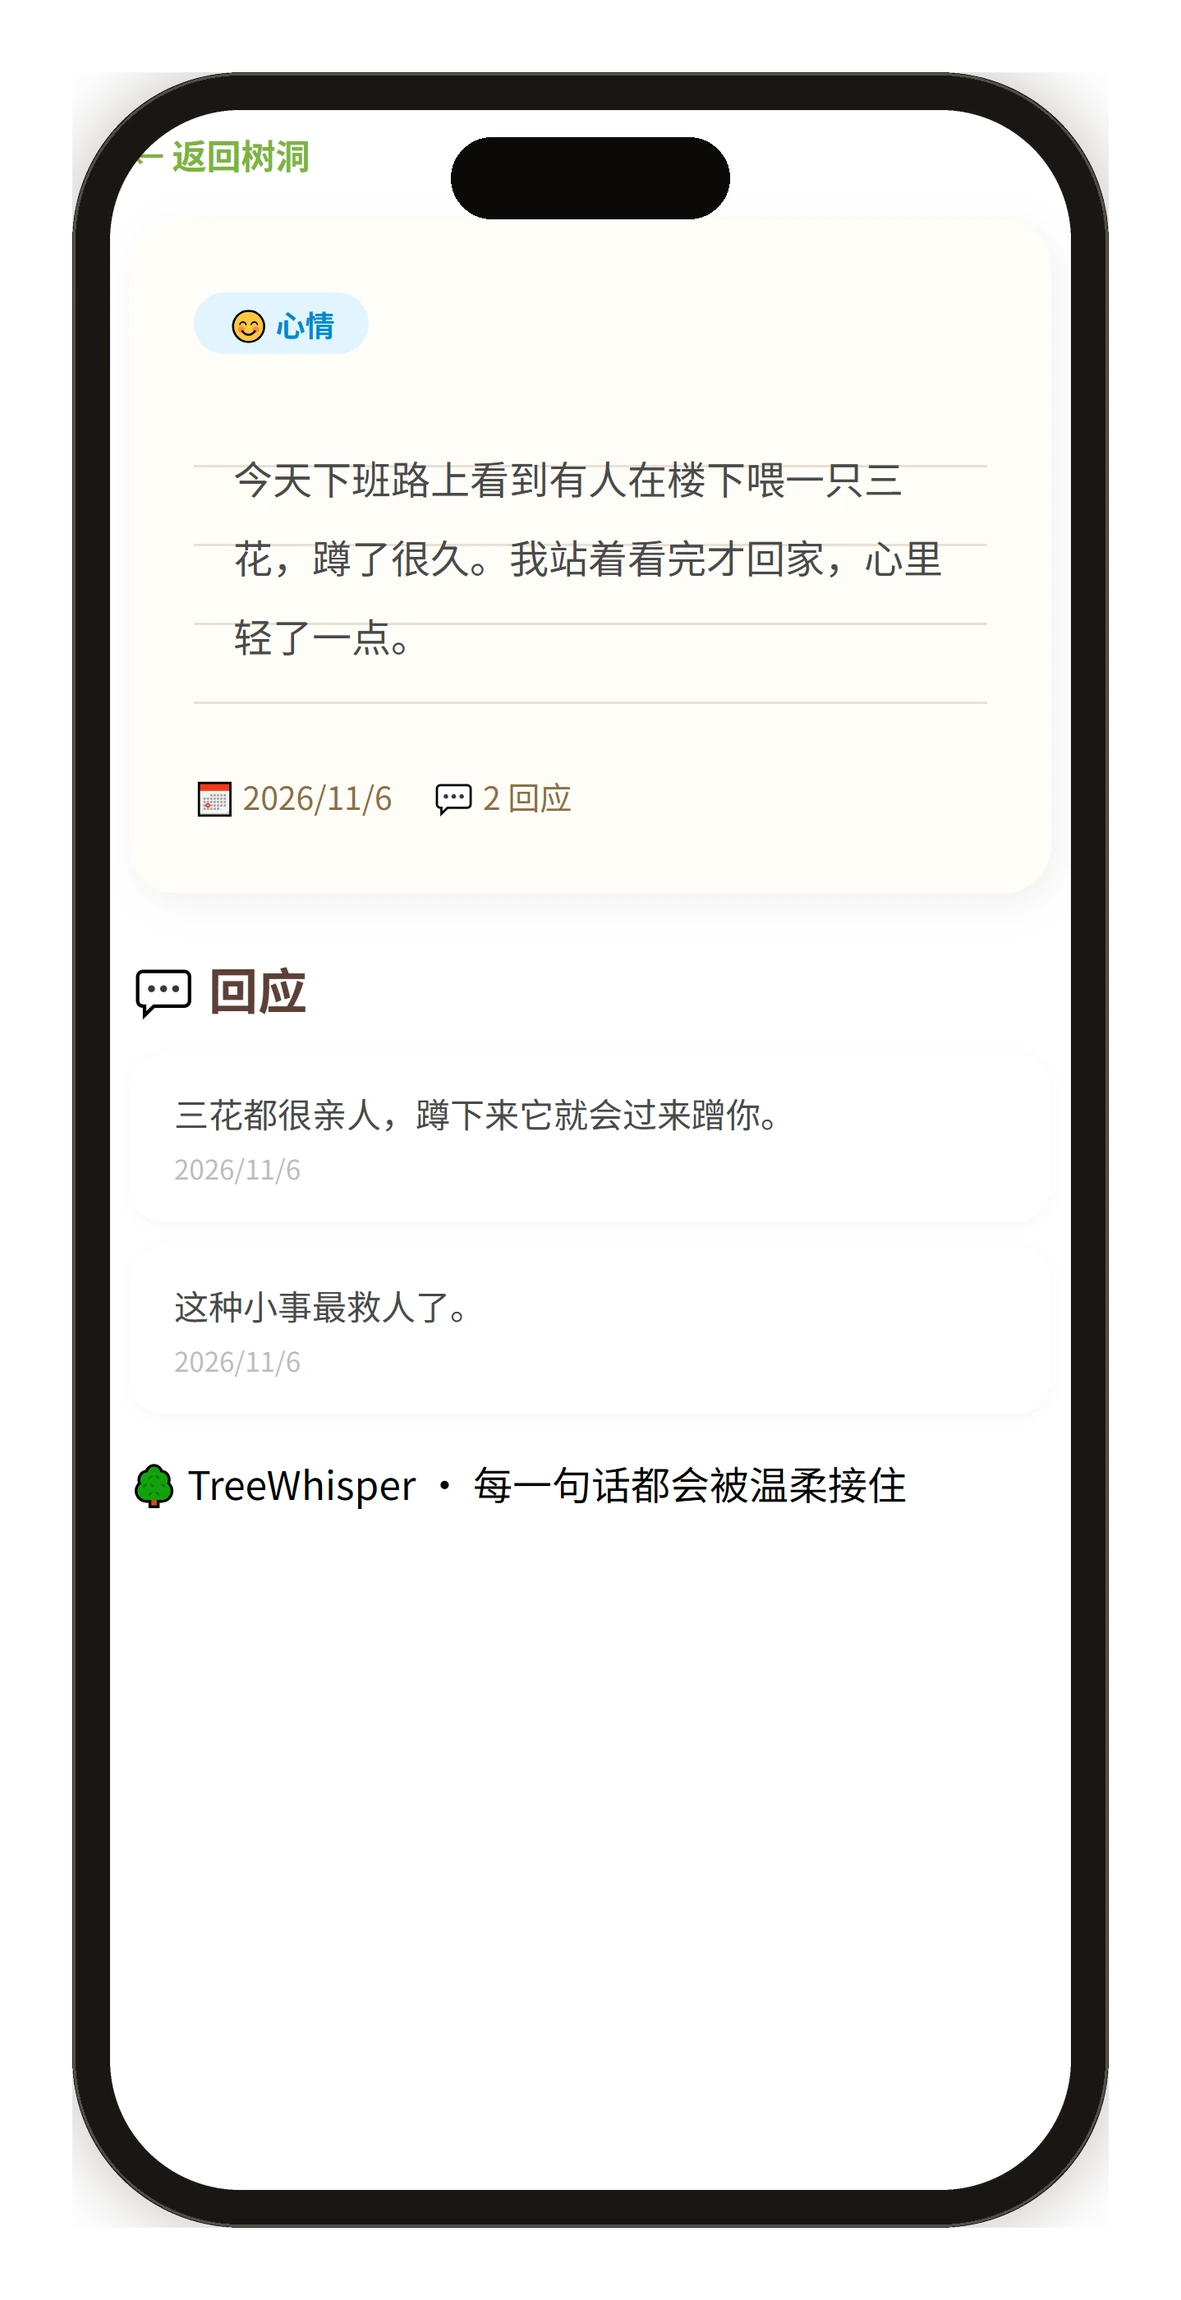
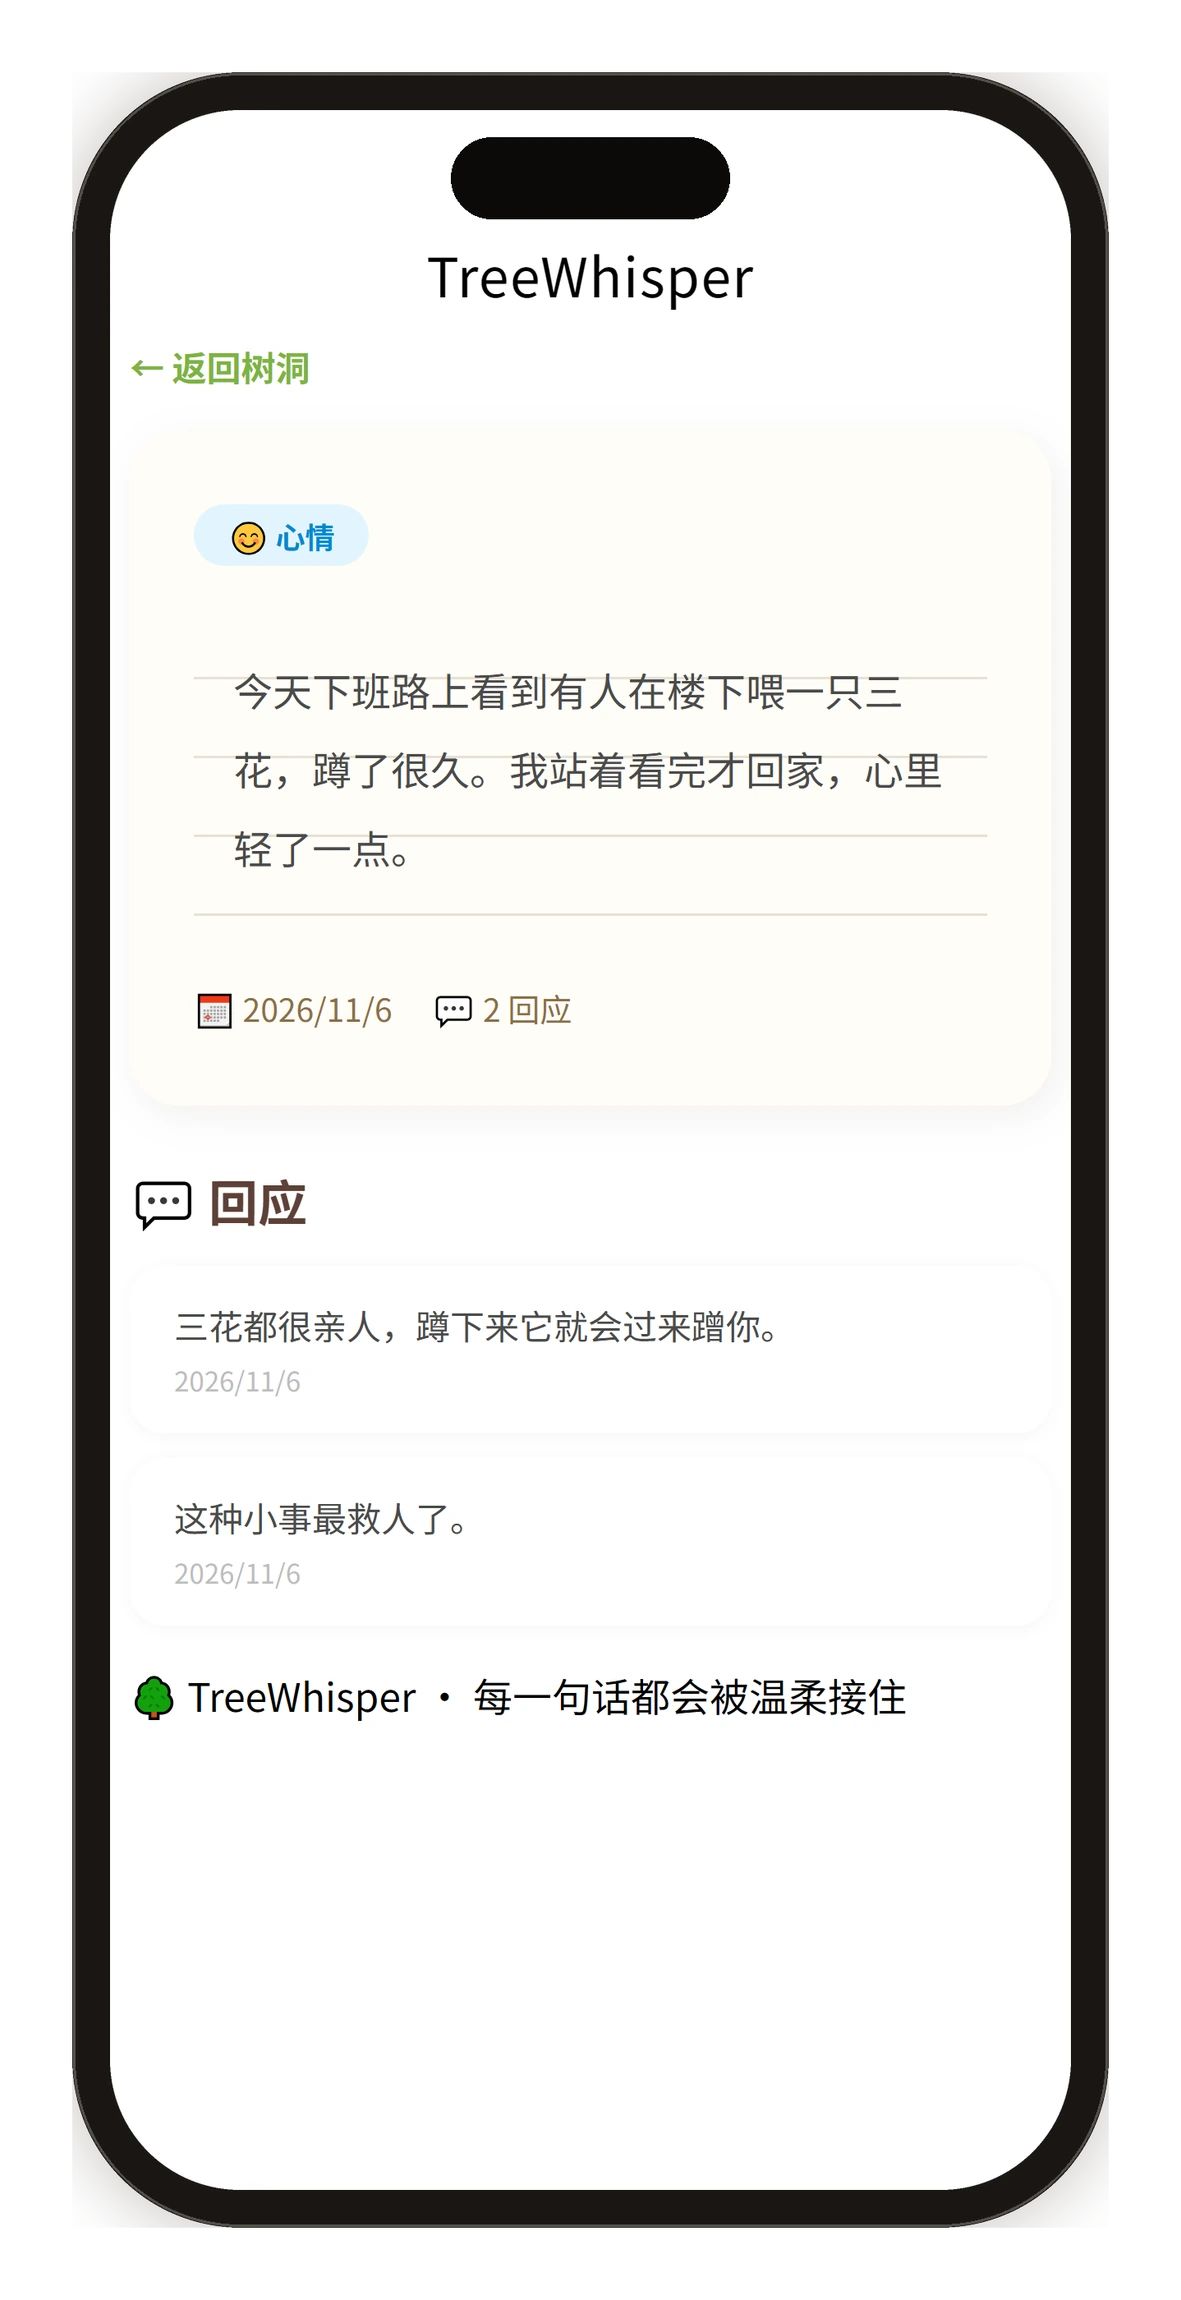
作品集首页去掉各作品说明文字，只留作品名、标签、体验入口与截图；体验入口改为醒目的实心按钮

diff --git a/docs/index.html b/docs/index.html
@@ -16,6 +16,7 @@
   --line:#e5e0d4;
   --line-2:#d5cebd;
   --accent:#a8402a;
+  --accent-d:#8c3321;
   --sans:-apple-system,BlinkMacSystemFont,"PingFang SC","Hiragino Sans GB","Microsoft YaHei","Segoe UI",sans-serif;
   --mono:ui-monospace,SFMono-Regular,Menlo,Consolas,"Liberation Mono",monospace;
 }
@@ -50,13 +51,25 @@ a{color:inherit;text-decoration:none}
 /* 作品版块 */
 .work{padding:clamp(38px,5vw,64px) 0 clamp(40px,5.4vw,70px);border-top:1px solid var(--line)}
 .work:nth-of-type(even){background:var(--bg-2)}
-.work__head{display:flex;flex-wrap:wrap;align-items:baseline;gap:8px 16px;margin-bottom:clamp(24px,3vw,38px)}
+.work__head{display:flex;flex-wrap:wrap;align-items:center;gap:12px 18px;margin-bottom:clamp(24px,3vw,38px)}
 .work__no{font-family:var(--mono);font-size:12px;color:var(--muted);letter-spacing:.1em}
 .work h2{margin:0;font-size:clamp(22px,2.6vw,30px);font-weight:600;letter-spacing:-.01em;line-height:1.3}
-.work__sub{flex:1 1 100%;order:3;margin:2px 0 0;color:var(--muted);font-size:13.5px;letter-spacing:.02em}
-.tags{display:flex;flex-wrap:wrap;gap:6px;margin:0 0 0 auto;padding:0;list-style:none}
+
+.tags{display:flex;flex-wrap:wrap;gap:6px;margin:0;padding:0;list-style:none;flex:1 1 auto}
 .tags li{font-size:11.5px;line-height:1;color:var(--ink-2);border:1px solid var(--line-2);
   border-radius:2px;padding:5px 8px;white-space:nowrap}
+
+/* 体验入口 */
+.work__act{display:flex;align-items:center;gap:16px;margin-left:auto}
+.cta{display:inline-flex;align-items:center;gap:8px;background:var(--accent);color:#fff;
+  padding:10px 20px 11px;border-radius:3px;font-size:14px;font-weight:500;letter-spacing:.04em;
+  transition:background .18s,transform .18s,box-shadow .18s}
+.cta .arrow{font-size:12px;opacity:.9;transition:transform .18s}
+.cta:hover{background:var(--accent-d);box-shadow:0 3px 10px rgba(140,51,33,.22)}
+.cta:hover .arrow{transform:translate(1px,-1px)}
+.more{font-size:12.5px;color:var(--muted);border-bottom:1px solid var(--line-2);
+  padding-bottom:1px;transition:color .2s,border-color .2s}
+.more:hover{color:var(--accent);border-color:var(--accent)}
 
 /* 手机排 */
 .phones{--gap:clamp(8px,1.2vw,18px);--cols:4;
@@ -66,16 +79,6 @@ a{color:inherit;text-decoration:none}
 .phones--c4{--cols:4}
 .ph{width:calc((100% - (var(--cols) - 1) * var(--gap)) / var(--cols));margin:0}
 .ph img{width:100%;height:auto}
-
-/* 说明 */
-.desc{margin-top:clamp(26px,3.2vw,40px);display:grid;grid-template-columns:minmax(0,1fr) auto;
-  gap:clamp(18px,3vw,48px);align-items:end}
-.desc p{margin:0;max-width:44em;color:var(--ink-2);font-size:15px;line-height:1.92}
-.desc p + p{margin-top:9px}
-.links{display:flex;gap:20px;font-size:13.5px;white-space:nowrap;padding-bottom:4px}
-.links a{border-bottom:1px solid var(--line-2);padding-bottom:2px;transition:color .2s,border-color .2s}
-.links a:hover{color:var(--accent);border-color:var(--accent)}
-.links .arrow{font-size:12px;opacity:.7;margin-left:2px}
 
 /* 页脚 */
 .foot{border-top:1px solid var(--line);padding:30px 0 54px;
@@ -87,13 +90,14 @@ a{color:inherit;text-decoration:none}
 @media (max-width:900px){
   .phones{--cols:2}
   .phones--land{--cols:1}
-  .tags{margin-left:0;order:2;flex-basis:100%}
-  .desc{grid-template-columns:1fr;align-items:start}
+  .tags{flex-basis:100%;order:3}
+  .work__act{order:4;margin-left:0;flex-basis:100%}
 }
 @media (max-width:560px){
   .phones{--cols:2;--gap:9px}
   .phones--land{--cols:1}
-  .work__sub{font-size:12.5px}
+  .cta{flex:1;justify-content:center;padding:12px 18px}
+  .more{flex:0 0 auto}
 }
 @media (prefers-reduced-motion:reduce){html{scroll-behavior:auto}}
 </style>
@@ -130,7 +134,10 @@ a{color:inherit;text-decoration:none}
         <ul class="tags">
           <li>像素地牢</li><li>横屏战斗</li><li>三十层病区</li><li>可试玩</li>
         </ul>
-        <p class="work__sub">从三十层病区的最顶上往下打，一层一层打到门口。</p>
+        <p class="work__act">
+          <a class="cta" href="https://miolulu.github.io/hospital-slayer-game/play/" target="_blank" rel="noopener">在线试玩<span class="arrow">↗</span></a>
+          <a class="more" href="zhanshen/">详情</a>
+        </p>
       </div>
 
       <div class="phones phones--land phones--c3">
@@ -139,18 +146,6 @@ a{color:inherit;text-decoration:none}
         <figure class="ph"><img src="assets/hd/zhanshen-floor.webp" alt="楼层页：左边是病房实景，右边列出这一层会遇到的六种敌人" width="2226" height="1386" loading="lazy"></figure>
         <figure class="ph"><img src="assets/hd/zhanshen-archive.webp" alt="病历档案：病人姓名、编号、症状记录与楼层进度" width="2312" height="1437" loading="lazy"></figure>
         <figure class="ph"><img src="assets/hd/zhanshen-weapon.webp" alt="武器页：剑、枪、鞭、炮四类武器，各自写着攻击范围和出手节奏" width="2226" height="1386" loading="lazy"></figure>
-      </div>
-
-      <div class="desc">
-        <div>
-          <p>你在一座精神病院醒过来，病历上写着 0001 号，失聪、低语幻听、对红光过敏。医院有三十层病区，从最上面往下打，打过一层才开下一层。</p>
-          <p>战斗自动出手，你管走位、捡掉落、什么时候撤。连打会让理智值一直往下掉，掉到三成以下就异化：伤害变高，护盾变薄，场上的敌人也会变多。</p>
-          <p>所有菜单都按病历做。角色页是一张病人档案，武器页写着每件武器的攻击范围和出手节奏，症状记录同时也是解锁条件。</p>
-        </div>
-        <p class="links">
-          <a href="https://miolulu.github.io/hospital-slayer-game/play/" target="_blank" rel="noopener">在线试玩<span class="arrow">↗</span></a>
-          <a href="zhanshen/">详情</a>
-        </p>
       </div>
     </div>
   </article>
@@ -164,7 +159,10 @@ a{color:inherit;text-decoration:none}
         <ul class="tags">
           <li>情绪树洞</li><li>匿名纸条</li><li>纸团漂流</li><li>可注册</li>
         </ul>
-        <p class="work__sub">写下的纸条贴进树洞，或者揉成纸团扔进海里等人捞。</p>
+        <p class="work__act">
+          <a class="cta" href="https://treewhisper-demo.app.workbuddy.host/?sharecode=D5ALB7TBDL" target="_blank" rel="noopener">在线体验<span class="arrow">↗</span></a>
+          <a class="more" href="tree/">详情</a>
+        </p>
       </div>
 
       <div class="phones phones--c3">
@@ -174,19 +172,6 @@ a{color:inherit;text-decoration:none}
         <figure class="ph"><img src="assets/hd/tree-calendar.webp" alt="树历：一个月一张纸，写过纸条的日子盖一片叶子" width="1181" height="2300" loading="lazy"></figure>
         <figure class="ph"><img src="assets/hd/tree-note.webp" alt="纸条详情：正文写在横线纸上，下面是陌生人的两条回复" width="1181" height="2300" loading="lazy"></figure>
         <figure class="ph"><img src="assets/hd/tree-spirit.webp" alt="小蜗的档案：等级、成长进度、每天的欢迎语，以及喂食、抚摸、写纸条三个动作" width="1181" height="2300" loading="lazy"></figure>
-      </div>
-
-      <div class="desc">
-        <div>
-          <p>一个写纸条的地方。写下的话可以贴进树洞，也可以揉成纸团扔进海里，等某个陌生人捞起来。</p>
-          <p>树上五个洞对应五种情绪：心情、烦恼、待办、梦想、秘密。写之前先选洞，不填心情打分表；选「秘密」的纸条只能存，不能扔。</p>
-          <p>纸条可以允许陌生人回一句。回的人看不到作者，作者也看不到回的人，只剩一个日期。纸团每天限捞五次，捞过的不再出现。</p>
-          <p>树历按天记着写过纸条的日子，点开能翻回当天的全部纸条。小蜗住在树根旁边，喂它、摸它、写纸条它会长大，等级越高，那句「欢迎回家」换得越勤。</p>
-        </div>
-        <p class="links">
-          <a href="https://treewhisper-demo.app.workbuddy.host/?sharecode=D5ALB7TBDL" target="_blank" rel="noopener">在线体验<span class="arrow">↗</span></a>
-          <a href="tree/">详情</a>
-        </p>
       </div>
     </div>
   </article>
@@ -200,7 +185,10 @@ a{color:inherit;text-decoration:none}
         <ul class="tags">
           <li>音乐玩具</li><li>七只猫</li><li>三种音色</li><li>可试玩</li>
         </ul>
-        <p class="work__sub">点猫发声，键盘三排就是三个八度。</p>
+        <p class="work__act">
+          <a class="cta" href="https://miolulu.github.io/meow-chime/" target="_blank" rel="noopener">在线试玩<span class="arrow">↗</span></a>
+          <a class="more" href="meow/">详情</a>
+        </p>
       </div>
 
       <div class="phones phones--land phones--c2">
@@ -208,18 +196,6 @@ a{color:inherit;text-decoration:none}
         <figure class="ph"><img src="assets/hd/meow-welcome.webp" alt="开场说明卡：轻触猫咪发声、键盘分区、随机一段、底部按钮管理演奏流程" width="2312" height="1562" loading="lazy"></figure>
         <figure class="ph"><img src="assets/hd/meow-create.webp" alt="演奏界面：底部音符键、回退清空存三个按钮，右侧面板收着存过的旋律" width="2312" height="1562" loading="lazy"></figure>
         <figure class="ph"><img src="assets/hd/meow-play.webp" alt="弹奏中：猫跟着音阶亮起来，音符从猫身上飘出去" width="2312" height="1562" loading="lazy"></figure>
-      </div>
-
-      <div class="desc">
-        <div>
-          <p>七只猫站成一排，每只守一个音阶。点猫或者敲键盘都能发声，电子琴、钢琴、木琴三种音色随时换。</p>
-          <p>键盘三排对应三个八度：QWE 一行是高音，ASD 是中音，ZXC 是低音。手指放上去位置就固定，不看屏幕也能弹。</p>
-          <p>弹过的旋律能回退一步、一次清空，也能存下来，右侧面板列着存过的片段。</p>
-        </div>
-        <p class="links">
-          <a href="https://miolulu.github.io/meow-chime/" target="_blank" rel="noopener">在线试玩<span class="arrow">↗</span></a>
-          <a href="meow/">详情</a>
-        </p>
       </div>
     </div>
   </article>
@@ -233,26 +209,16 @@ a{color:inherit;text-decoration:none}
         <ul class="tags">
           <li>原创科幻</li><li>六人小队</li><li>十章正文</li><li>在线阅读</li>
         </ul>
-        <p class="work__sub">一部科幻长篇，和它自己的阅读器。</p>
+        <p class="work__act">
+          <a class="cta" href="https://miolulu.github.io/ember-novel/" target="_blank" rel="noopener">在线阅读<span class="arrow">↗</span></a>
+          <a class="more" href="ember/">详情</a>
+        </p>
       </div>
 
       <div class="phones phones--c3">
         <figure class="ph"><img src="assets/hd/ember-cover.webp" alt="余烬封面：红色书名、主题词、题记与六个角色头像" width="1181" height="2300"></figure>
         <figure class="ph"><img src="assets/hd/ember-read.webp" alt="正文：序章开头，顶部一条细进度线" width="1181" height="2300" loading="lazy"></figure>
         <figure class="ph"><img src="assets/hd/ember-roles.webp" alt="角色页：灼野小队六名成员，各自的队内位置与异能等级" width="1181" height="2300" loading="lazy"></figure>
-      </div>
-
-      <div class="desc">
-        <div>
-          <p>一部十章左右的科幻长篇，六个主角，一支叫灼野的小队。故事从所有星辰熄灭之后开始，序章在一座被异变体占了三天的能源站。</p>
-          <p>阅读器把封面、目录、角色收进同一条侧栏，切章节不丢阅读位置；顶部一条细进度线，读到哪儿一目了然。</p>
-          <p>六个角色各有一张卡片：头像、队内位置、异能名称与等级。点开是立绘和一段人物说明，忘了谁是谁的时候一眼能找回来。</p>
-          <p>同一套页面在手机上也成立，侧栏收成抽屉，正文重新排版，读到哪一段都不会跳。</p>
-        </div>
-        <p class="links">
-          <a href="https://miolulu.github.io/ember-novel/" target="_blank" rel="noopener">在线阅读<span class="arrow">↗</span></a>
-          <a href="ember/">详情</a>
-        </p>
       </div>
     </div>
   </article>
